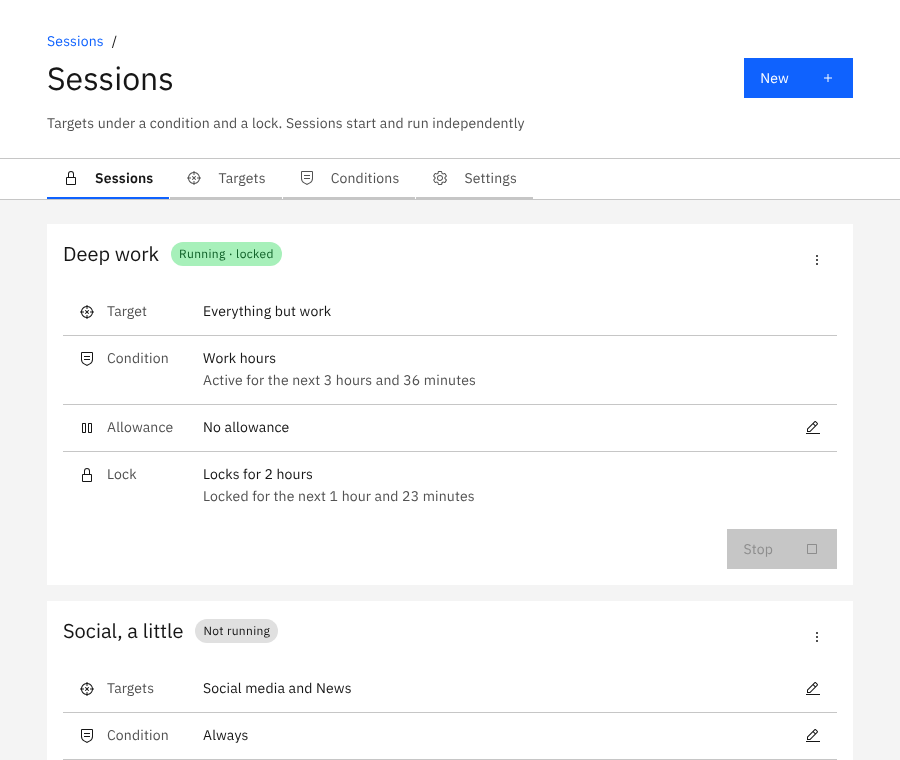
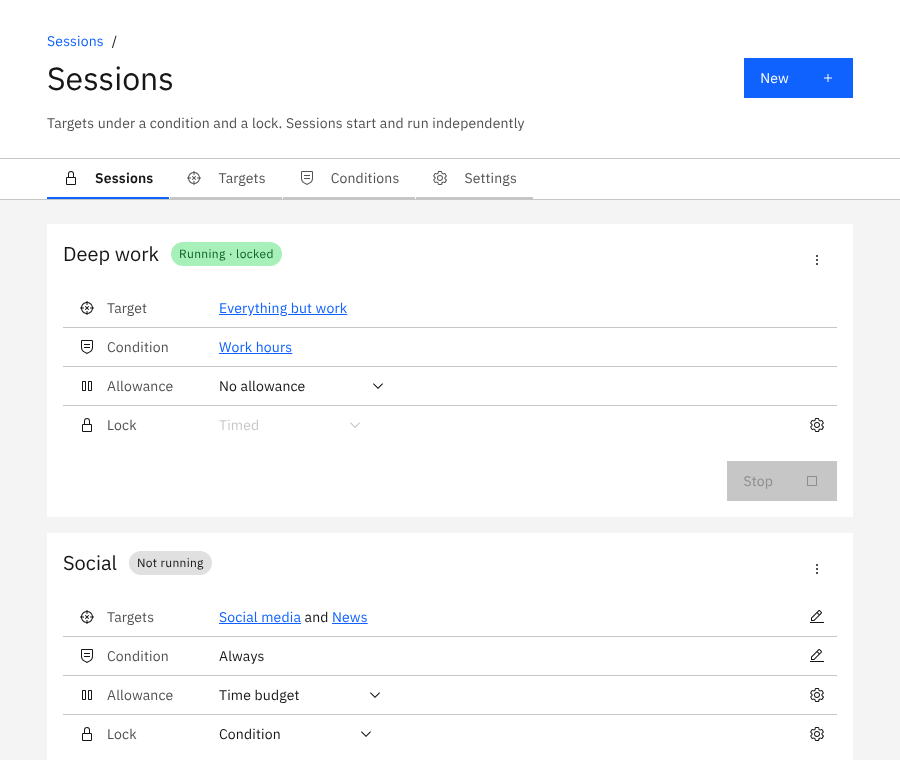
Docs: tiles in rows, errors, durations and countdowns; new screenshots
AGENTS.md: the tiles of every kind and their medium rows, the session's
rows and their dialogs (no popovers, no status line), where errors go,
the duration picker, and time left in one unit. CLI.md: rows, not
fields; durations and countdowns as they are written now. README: rows
changed in place, and screenshots of the window as it is, with the
sessions called Social and No gaming.

Claude-Session: https://claude.ai/code/session_01SBfnkg8w91Fj4Y9v7AMuP3

diff --git a/AGENTS.md b/AGENTS.md
@@ -34,12 +34,13 @@ Bullseye is a Windows tray app (Tauri 2, Rust, a Carbon web page) that blocks di
 | `clock.rs`, `localtime.rs`, `datetime.rs`, `duration.rs`, `boot.rs` | internet time, time zones, dates, durations, which start of Windows this is |
 | `watchdog.rs`, `sync.rs` | the service's watch over the app, logging; crash-safe locks and threads |
 
-Frontend (`src/`, no build step): `index.html`, `app.css` (layout only), `strings.js` (every visible text), `js/main.js` (router, tabs, Settings), `core.js` (commands, texts, status, `ask`), `kinds.js` (`KINDS`: the three kinds, generic pages), `forms.js` (the target and condition editors, and an allowance's form), `duration.js` (`durationField`: the one duration picker, `cds-number-input`s for days, hours, minutes and seconds; the window never takes typed durations, the CLI does), `timing.js` (`timingFields`: a duration or a local date and time, shared by the timed lock and the delayed start), `locks.js` (`LOCKS`), `tiles.js`, `fields.js` (a session's rows on its tile and their panels, the New session and Rename modals), `editor.js` (targets and conditions), `detour.js` (a target or condition made from a session's tile). `src/vendor/` is Carbon, generated by `npm run vendor` from `scripts/carbon/entry.js` (which includes `cds-number-input`); never edit it.
+Frontend (`src/`, no build step): `index.html`, `app.css` (layout only), `strings.js` (every visible text), `js/main.js` (router, tabs, Settings), `core.js` (commands, texts, status, `ask`), `kinds.js` (`KINDS`: the three kinds, generic pages), `forms.js` (the target and condition editors, and an allowance's form), `duration.js` (`durationField`: the one duration picker, a number and a unit dropdown (days, hours, minutes, and seconds where they make sense); the window never takes typed durations, the CLI does), `timing.js` (`timingFields`: a duration or a local date and time, shared by the timed lock and the delayed start), `locks.js` (`LOCKS`), `tiles.js` (the tiles of every kind; a target's and condition's rows), `fields.js` (a session's rows on its tile and their dialogs, the New session and Rename modals), `editor.js` (targets and conditions), `detour.js` (a target or condition made from a session's tile). `src/vendor/` is Carbon, generated by `npm run vendor` from `scripts/carbon/entry.js` (the components and icons the page uses, nothing more); never edit it.
 
 ## Rules
 
 - **The service decides, the app enforces.** Locks, schedules, allowances and what is let through are decided in Rust; the page has no logic of its own for what the backend knows, and every word about times, schedules and errors comes from Rust (so the window and the CLI say the same).
 - **Every visible text is in `strings.js`**, looked up with `t("path")`; never inline.
+- **Time left is one unit, rounded** (`duration::left`): a unit counts from one and a half of it, so `2 minutes` for 2:05 and `89 seconds` for 1:29. A duration that was set (an allowance, a lock, the unlock delay) is written exactly (`duration::countdown`).
 - **The CLI stays level with the window**: a command in `generate_handler!` needs an entry in `cli::GUI_COMMANDS`, a CLI command, a help line and a line in `CLI.md`; a test fails otherwise.
 - **Faults open the hatch, never close it.** A broken `unlock.json` means no unlock delay; an unconfigured app can always unlock. The unlock tests are many on purpose; keep them passing.
 - **Err towards blocking elsewhere**: a condition that cannot be told (an unreadable drive, no webhook answer) counts as its fallback or as active.
@@ -86,9 +87,11 @@ All UI is IBM's Carbon design system through `@carbon/web-components`; a missing
 - Themes g10 (light) and g100 (dark), following Windows.
 - Layout: one full-width column per view in `main`, capped at 66rem and centred; the window is at least 456 × 480 px (Delete, Cancel and Save fit on one row); no horizontal scrolling. Only `#scroller` scrolls, with the scrollbar's room kept on both sides so content stays centred; the heading and tabs are fixed above it.
 - Navigation: line `cds-tabs` (icon-only below 672 px) and a breadcrumb on every view; no header actions, hamburger or side nav.
-- Buttons: `size="md"`, every button has an icon (except the modal's footer), no ghost buttons; `tertiary` for minor actions, `danger-tertiary` for destructive ones.
-- Sessions: each is a `cds-tile`: its name with the state tag and the ⋮ menu (Rename, Duplicate, Delete), then its rows in a `cds-contained-list` (Targets, Condition, Allowance, Lock: an icon, a label, the value, with target and condition names as links to their editors, and what is happening now), then Start / Stop. A row's action is a ghost `cds-icon-button` (`lg`, filling the row) that opens a plain `cds-popover` without a caret, below it, or above where it fits only there (no autoscroll): the targets as clickable list items with a checkmark (each choice saved at once, the panel staying open, the last remaining target disabled so it cannot be unmarked) with New target, or one condition, allowance or lock method in a disclosed `cds-contained-list` with a checkmark on the current one, New condition or the settings last. Each choice is saved as made; New target and New condition go on a detour. A locked session's targets, condition and lock have no edit button; its allowance stays open (the service takes only a stricter one), and so does its lock when it is timed or a delay (only its settings, for a later end or a longer wait). A link to a session (`#/edit/<id>`) brings its tile into view.
+- Buttons: `size="md"`, every button has an icon (except the modal's footer), no ghost buttons but a contained list row's action (`cds-icon-button`); `tertiary` for minor actions, `danger-tertiary` for destructive ones.
+- Tiles: each is a `cds-tile`: its name with a tag and the ⋮ menu, then its rows in a medium `cds-contained-list` (40px rows; every contained list is medium): an icon, a label in a column of its own, the value, names as links to their editors. A target's rows are the parts of its editor that have something in them (Websites, Programs, Store apps, Titles, Other) and Used by; a condition's are Active and Used by. They are only to read: a target or condition is changed in its editor (its title is the link).
+- Sessions: the tag says its state (Not running, Running, Running · locked); the ⋮ menu has Rename, Duplicate, Delete; its rows are Targets, Condition, Allowance, Lock; then Start / Stop on the right. There is no status line: what the rows and the tag say is all. Targets and Condition show their names, with a medium ghost `cds-icon-button` as the row's action that opens a list in the dialog (`ask()` without buttons): the targets with a checkmark on each it has (each saved at once, the dialog staying open, the last remaining one disabled so it cannot be unmarked) and New target, or the conditions with a checkmark on the current one and New condition. Allowance and Lock are an inline small `cds-dropdown` in the row (each choice saved as made, its settings asked in the dialog), with a settings button for the one chosen. New target and New condition go on a detour. A locked session's targets, condition and lock method cannot change; its allowance stays open (the service takes only a stricter one), and so do its lock's settings when it is timed or a delay (a later end, a longer wait). A link to a session (`#/edit/<id>`) brings its tile into view.
 - Editors (targets, conditions): a name first, then sections with a heading and a line of text, spaced apart, no divider lines but the one above the buttons; the target editor uses an accordion. Every choice from a list is a `cds-dropdown` with `autoalign`; a duration is the `durationField` picker, never typed text. Forms are built anew each time (Carbon elements must not be re-attached).
+- Errors are Carbon's: a field's own message under it (`invalid`); for a group of fields or a whole form (a duration, a date and time the service refuses, an allowance, a schedule) an error `cds-inline-notification` under it (`errorNote`); an editor's save marks the fields and scrolls to the first. What the service refuses on an action (save, start, stop, lock) is a notification at the top of the page or dialog.
 - Anything that cannot be undone asks first in the one `cds-modal` (`ask()`), which also holds short forms (lock settings, passwords). A session's lock is its tile's fourth row: for the next start while it is stopped, at once after a yes while it runs unlocked (`lock_session`), read-only while it is locked.
 - The weekly schedule is the one hand-made control (`weekEditor`): Carbon has no time grid.
 

diff --git a/CLI.md b/CLI.md
@@ -15,13 +15,13 @@ It sends the same requests to the Bullseye service as the window, so the service
 | `bullseye status [--json]` | the three pages: every session (running or not, active or not, locked or not), every target, every condition |
 | `bullseye show <session> [--json]` | a session's tile, expanded |
 | `bullseye new <name> [options]` | **New session**, then **Save**, then its fields |
-| `bullseye edit <session> [options]` | the fields on a session's tile, and **Rename** in its menu |
-| `bullseye add <session> --targets <targets>` | ticking more targets in a session's Block field |
-| `bullseye remove <session> --targets <targets>` | unticking targets in a session's Block field |
+| `bullseye edit <session> [options]` | the rows on a session's tile, and **Rename** in its menu |
+| `bullseye add <session> --targets <targets>` | ticking more targets in a session's Targets row |
+| `bullseye remove <session> --targets <targets>` | unticking targets in a session's Targets row |
 | `bullseye delete <session> [--force]` | **Delete** (asks first, unless `--force`) |
 | `bullseye duplicate <session>` | **Duplicate** |
-| `bullseye start <session> [lock option] [--force]` | the Lock field on the session's tile, then **Start** (a locked session asks first, unless `--force`) |
-| `bullseye lock <session> <lock option> [--force]` | the Lock field of a running session that is not locked: it is locked from now on, and that is its lock for the next start too (asks first, unless `--force`) |
+| `bullseye start <session> [lock option] [--force]` | the Lock row on the session's tile, then **Start** (a locked session asks first, unless `--force`) |
+| `bullseye lock <session> <lock option> [--force]` | the Lock row of a running session that is not locked: it is locked from now on, and that is its lock for the next start too (asks first, unless `--force`) |
 | `bullseye stop <session> [--password <pw>] [--abort]` | **Stop** (a session locked with a password asks for it, as the window does; one locked with a delay is asked to stop first, `--abort` ends the wait) |
 | `bullseye target show <target> [--json]` | a target's tile and its editor |
 | `bullseye target apps [--json]` | the installed Store apps the editor offers to tick, by name and package family name |
@@ -90,7 +90,7 @@ With `edit`, an option replaces only what it names: `--targets` replaces all its
 
 ### Allowances: `--allowance` and its options
 
-An allowance lets a session go quiet for a while. A session has at most one, set on the session itself with the options of `new` and `edit` (as in the window, where it is the Unless field on the session's tile). Three kinds:
+An allowance lets a session go quiet for a while. A session has at most one, set on the session itself with the options of `new` and `edit` (as in the window, where it is the Allowance row on the session's tile). Three kinds:
 
 - A **budget** is a time of use. It is for the session as a whole (`--scope total`) or for each of its items on its own (`--scope each`: each site, program, Store app and window title in its targets). While time is left, what is covered is not closed; it is only watched, and the time it is in use is counted. When the time is used up it is closed again, until the budget is reset.
 - A **Pomodoro** is a fixed cycle: blocked for `--blocked`, then everything allowed for `--allowed`, over and over. While it allows, the session enforces nothing, Obsidian's web viewer included.
@@ -170,7 +170,7 @@ bullseye condition edit "Work hours" --times "Mon-Fri 08:00-17:00; Sat 10:00-14:
 > bullseye status
 Sessions:
   Work     Running · inactive for the next 15 hours · unlocked for the next 15 hours
-  Evening  Running · active · locked for the next 1 hour and 2 minutes
+  Evening  Running · active · locked for the next 62 minutes
 Targets:
   Social media  used by Work
   Games         used by Work, Evening
@@ -273,4 +273,4 @@ A running session reads its schedule in the time zone Windows had when the sessi
 
 ## Durations
 
-In the window a duration is picked in boxes for days, hours, minutes and seconds; the command line takes it typed: `30s`, `10m`, `2h`, `1d`, or several parts together: `2h 30m`, `2h30m`, `1d 12h`. Words work too: `2 hours 30 minutes`. Everything the CLI and the window show is written out, leaving out units that are zero: `2 hours and 30 minutes`, `2 hours and 5 seconds`, `1 day, 2 hours and 1 minute`. A period leaves out a lone 1: "every day", "every hour", "every 2 hours".
+In the window a duration is a number and a unit (days, hours, minutes, and seconds where they make sense): an hour and a half is 90 minutes; the command line takes it typed: `30s`, `10m`, `2h`, `1d`, or several parts together: `2h 30m`, `2h30m`, `1d 12h`. Words work too: `2 hours 30 minutes`. A duration that was set is written out in at most two units, leaving out one that is zero: `2 hours and 30 minutes`, `1 day and 2 hours`, `45 minutes`. A period leaves out a lone 1: "every day", "every hour", "every 2 hours". Time left (until a lock ends, a condition changes, an allowance runs out) is one unit, rounded: a unit counts from one and a half of it, so `2 minutes` for 2 minutes and 5 seconds, `89 seconds` for 1 minute and 29 seconds, `60 minutes` for an hour, `2 hours` from an hour and a half.

diff --git a/README.md b/README.md
@@ -25,7 +25,7 @@ Each target also has **actions**: the ways things are closed. Blocked tabs in Ch
 
 ## Features
 
-- **Sessions set up on their tiles**: each row (targets, condition, allowance, lock) has an edit button to change it in place. Several run at once, each started and stopped on its own, from the window or the command line, and a running session can be locked on the spot.
+- **Sessions set up on their tiles**: each row (targets, condition, allowance, lock) is changed in place, from a list or a dropdown in the row. Several run at once, each started and stopped on its own, from the window or the command line, and a running session can be locked on the spot.
 - **Conditions** by weekly schedule (drawn on a week grid), USB flash drive, webhook (any URL that answers, so you can hook up a home automation or a calendar), or any / all of those combined.
 - **Locks that hold**: the rules live in a Windows service that runs as SYSTEM, so ending the app in Task Manager does not help, times are measured on internet time so changing the clock does not either, and sessions survive a restart. A locked session's targets and conditions can only be made stricter, and so can its lock (a later end, a longer wait) and its allowance.
 - **A way out you choose**: Unlock in Settings ends every session, behind a countdown you set (none by default) and optionally another way, such as a password or the USB key.
